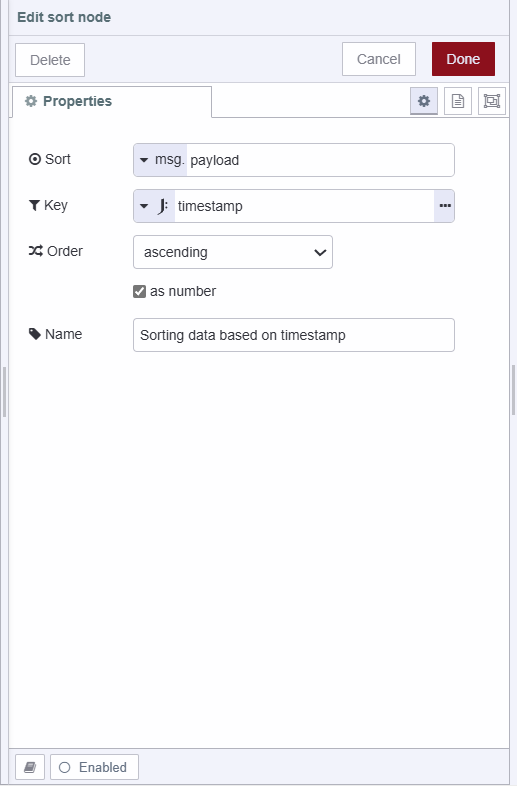
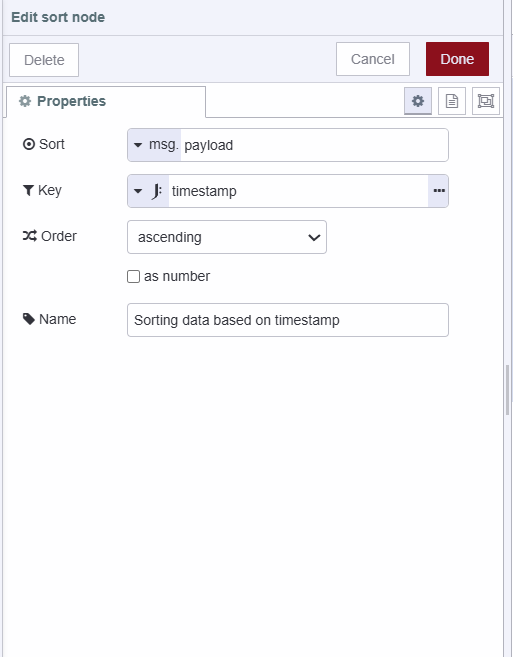
update blog

Changed region(s): [[0.0, 0.0, 1.0, 1.0], [0.2495, 0.1218, 0.6862, 0.5175], [0.8421, 0.2435, 0.9045, 0.3044]]

diff --git a/src/blog/2024/06/filtering-mapping-sorting-reducing-with-node-red.md b/src/blog/2024/06/filtering-mapping-sorting-reducing-with-node-red.md
@@ -17,7 +17,7 @@ tags:
    - data transformation
 ---
    
-[Node-RED](/node-red/) is a visual programming platform known for its user-friendly interface and low-code approach, that allows developers to spend more time developing solutions instead of dealing with technical complexities. However, users can sometimes make applications developed with Node-RED complex and hard to maintain when they are not familiar with its basics. Understanding Node-RED basics helps keep flows low-coded which helps keep your projects simple and easy to understand. This enables more team members to contribute ideas and develop effective solutions for business problems.
+[Node-RED](/node-red/) is a visual programming platform known for its user-friendly interface and low-code approach, that allows developers to spend more time developing solutions instead of dealing with technical complexities. However, users can sometimes make applications developed with Node-RED complex and hard to maintain when they are not familiar with its basics. Understanding Node-RED basics helps keep flows low-coded which helps keep your projects simple and easy to understand.
 
 <!--more-->
 
@@ -36,75 +36,76 @@ For more details refer to the following articles:
 - [Why Low-Code is Better](/blog/2024/03/low-code-is-better/).
 - [Why you need a low-code platform](/blog/2024/05/why-you-need-a-low-code-platform/).
 
-
 ## Why do you need to learn to filter, map, sort, and reduce the data?
 
-Learning to filter, map, sort, and reduce data is crucial for effective data processing and transformation. For example, consider the scenario where you have an array of sensor data retrieved from an InfluxDB database. The data looks something like this:
+Filter, map, sort, and reduce are essential functions in data processing because they efficiently transform, extract, organize, and aggregate data, that makes it easier to analyze and derive insights from datasets. For example, consider the scenario where you have an array of sensor data retrieved from an database. The data looks something like this:
 
 ```json
 [
     {
         "timestamp": "2024-06-17T10:00:00Z",
-        "emperature": 25
+        "temperature": 25
     },
     {
         "timestamp": "2024-06-17T11:00:00Z",
-        "emperature": 26
+        "temperature": 26
     },
     {
         "timestamp": "2024-06-17T10:30:00Z",
-        "emperature": 27
+        "temperature": 27
     },
     {
         "timestamp": "2024-06-17T10:15:00Z",
-        "emperature": 28
+        "temperature": 28
     },
     {
         "timestamp": "2024-06-17T10:45:00Z",
-        "emperature": 30
+        "temperature": 30
     },
     {
         "timestamp": "2024-06-18T09:00:00Z",
-        "emperature": 24
+        "temperature": 24
     },
     {
         "timestamp": "2024-06-18T10:00:00Z",
-        "emperature": 27
+        "temperature": 27
     },
     {
         "timestamp": "2024-06-18T11:00:00Z",
-        "emperature": 28
+        "temperature": 28
     },
     {
         "timestamp": "2024-06-18T12:00:00Z",
-        "emperature": 29
+        "temperature": 29
     },
     {
         "timestamp": "2024-06-19T10:00:00Z",
-        "emperature": 25
+        "temperature": 25
     },
     {
+ 
         "timestamp": "2024-06-19T11:00:00Z",
-        "emperature": 26
+        "temperature": 26
     }
 ]
 ```
 
-However, you noticed that the property 'emperature' is missing the 't'; it should be 'temperature'. Additionally, the data is not correctly ordered based on the timestamp, and you only need the data from June 17th. Finally, you want to calculate the average temperature for that day. Users who are not familiar with Node-RED basics will do it using a JavaScript function node, as shown below:
+However, you've noticed that the temperature data is in Kelvin, but you need it in Celsius. Additionally, the data is not correctly ordered by timestamp, and you only need the data of June 17th. Finally, you want to calculate the average temperature for that day. Users who are not familiar with Node-RED basics can use a JavaScript function node to achieve this, as shown below:
 
 {% renderFlow %}
-[{"id":"306d455509a3747e","type":"inject","z":"cc28dc90c5cbc3a7","name":"Inject the sample data","props":[{"p":"payload"}],"repeat":"","crontab":"","once":false,"onceDelay":0.1,"topic":"","payload":"[{\"timestamp\":\"2024-06-17T10:00:00Z\",\"emperature\":25},{\"timestamp\":\"2024-06-17T11:00:00Z\",\"emperature\":26},{\"timestamp\":\"2024-06-17T10:30:00Z\",\"emperature\":27},{\"timestamp\":\"2024-06-17T10:15:00Z\",\"emperature\":28},{\"timestamp\":\"2024-06-17T10:45:00Z\",\"emperature\":30},{\"timestamp\":\"2024-06-18T09:00:00Z\",\"emperature\":24},{\"timestamp\":\"2024-06-18T10:00:00Z\",\"emperature\":27},{\"timestamp\":\"2024-06-18T11:00:00Z\",\"emperature\":28},{\"timestamp\":\"2024-06-18T12:00:00Z\",\"emperature\":29},{\"timestamp\":\"2024-06-19T10:00:00Z\",\"emperature\":25},{\"timestamp\":\"2024-06-19T11:00:00Z\",\"emperature\":26}]","payloadType":"json","x":500,"y":640,"wires":[["c58e1653fe5511eb"]]},{"id":"c58e1653fe5511eb","type":"function","z":"cc28dc90c5cbc3a7","name":"Filtering, mapping, reducing and sorting data with traditional coding","func":"let sensorData = msg.payload;\n\nconst filteredData = sensorData\n    .filter(item => item.timestamp.startsWith(\"2024-06-17\"))\n    .map(item => ({\n        timestamp: item.timestamp,\n        temperature: item.emperature\n    }));\n\nfilteredData.sort((a, b) => (a.timestamp > b.timestamp) ? 1 : ((b.timestamp > a.timestamp) ? -1 : 0));\n\nconst totalTemperature = filteredData.reduce((acc, entry) => acc + entry.temperature, 0);\nconst averageTemperature = totalTemperature / filteredData.length\n\nmsg.payload = {\n    sensorData: filteredData,\n    averageTemperature: averageTemperature\n};\n\nreturn msg;\n","outputs":1,"timeout":0,"noerr":0,"initialize":"","finalize":"","libs":[],"x":940,"y":640,"wires":[["827c7d2009eeb046"]]},{"id":"827c7d2009eeb046","type":"debug","z":"cc28dc90c5cbc3a7","name":"debug 3","active":true,"tosidebar":true,"console":false,"tostatus":false,"complete":"false","statusVal":"","statusType":"auto","x":1300,"y":640,"wires":[]}]
+[{"id":"306d455509a3747e","type":"inject","z":"baa50b8a4762ec1f","name":"Inject the sample data","props":[{"p":"payload"}],"repeat":"","crontab":"","once":false,"onceDelay":0.1,"topic":"","payload":"[     {\"timestamp\":\"2024-06-17T10:00:00Z\",\"temperature\":25},     {\"timestamp\":\"2024-06-17T11:00:00Z\",\"temperature\":26},     {\"timestamp\":\"2024-06-17T10:30:00Z\",\"temperature\":27},     {\"timestamp\":\"2024-06-17T10:15:00Z\",\"temperature\":28},     {\"timestamp\":\"2024-06-17T10:45:00Z\",\"temperature\":30},     {\"timestamp\":\"2024-06-18T09:00:00Z\",\"temperature\":24},     {\"timestamp\":\"2024-06-18T10:00:00Z\",\"temperature\":27},     {\"timestamp\":\"2024-06-18T11:00:00Z\",\"temperature\":28},     {\"timestamp\":\"2024-06-18T12:00:00Z\",\"temperature\":29},     {\"timestamp\":\"2024-06-19T10:00:00Z\",\"temperature\":25},     {\"timestamp\":\"2024-06-19T11:00:00Z\",\"temperature\":26} ]","payloadType":"json","x":140,"y":240,"wires":[["c58e1653fe5511eb"]]},{"id":"c58e1653fe5511eb","type":"function","z":"baa50b8a4762ec1f","name":"Filtering, mapping, reducing and sorting data with traditional coding","func":"let sensorData = msg.payload;\n\nconst filteredData = sensorData\n    .filter(item => item.timestamp.startsWith(\"2024-06-17\"))\n    .map(item => ({\n        timestamp: item.timestamp,\n        temperature: item.temperature - 273.15\n    }));\n\nfilteredData.sort((a, b) => (a.timestamp > b.timestamp) ? 1 : ((b.timestamp > a.timestamp) ? -1 : 0));\n\nconst totalTemperature = filteredData.reduce((acc, entry) => acc + entry.temperature, 0);\nconst averageTemperature = totalTemperature / filteredData.length;\n\nmsg.payload = {\n    sensorData: filteredData,\n    averageTemperature: averageTemperature\n};\n\nreturn msg;\n","outputs":1,"timeout":0,"noerr":0,"initialize":"","finalize":"","libs":[],"x":580,"y":240,"wires":[["827c7d2009eeb046"]]},{"id":"827c7d2009eeb046","type":"debug","z":"baa50b8a4762ec1f","name":"debug 3","active":true,"tosidebar":true,"console":false,"tostatus":false,"complete":"false","statusVal":"","statusType":"auto","x":940,"y":240,"wires":[]}]
 {% endrenderFlow %}
 
-While it may seem simple to you, it will require sufficient JavaScript knowledge for all other members involved in your project. Most Node-RED users are creative innovators who prefer developing quick and easy solutions and do not want to spend time learning programming languages.
+Using function nodes isn't wrong, but it adds complexity to your applications. Since not everyone on the team may be familiar with JavaScript, it can limit who can solve business problems. To keep the application flow simple, using a low-code approach to perform these operations is crucial.
 
+In the following sections, we'll explore how to perform these operations using a low-code approach.
 
 ## Mapping
 
-Mapping often refers to the process of applying a function to each item in a list, array, or other collection to produce a new collection of transformed items. here in our context, we need to modify the  property of each object. To perform mapping we will use the Split, Change, and Join nodes. 
+Mapping often refers to the process of applying a function to each item in a list, array, or other collection to produce a new collection of transformed items. here in our context, we need to covert the temperature data of each object from kelvin to celsius. To perform mapping we will use the Split, Change, and Join nodes. 
 
 1. Drag a Split node onto the canvas, the Split node will Split a message into a sequence of messages which will allow us to operate on each message.
-2. Drag a Change node onto the canvas, set the `msg.payload.temperature` to `msg.payload.emperature`, and then delete the `msg.payload.emperature` property.
+2. Drag a Change node onto the canvas, set the `msg.payload.temperature` to `payload.temperature - 273.15` as JSONata expression.
 
 !["Screenshot change node correcting the temperature property"](./images/filtering-mapping-sorting-reducing-data-with-node-red-change-node.png "Screenshot change node correcting the temperature property"){data-zoomable}
 
@@ -113,20 +114,21 @@ Mapping often refers to the process of applying a function to each item in a lis
 !["Screenshot join node creating new array by combining message sequnce"](./images/filtering-mapping-sorting-reducing-data-with-node-red-join-node-combining-node.png "Screenshot join node creating new array by combining message sequnce"){data-zoomable}
 
 {% renderFlow %}
-[{"id":"306d455509a3747e","type":"inject","z":"cc28dc90c5cbc3a7","name":"Inject the sample data","props":[{"p":"payload"}],"repeat":"","crontab":"","once":false,"onceDelay":0.1,"topic":"","payload":"[{\"timestamp\":\"2024-06-17T10:00:00Z\",\"emperature\":25},{\"timestamp\":\"2024-06-17T11:00:00Z\",\"emperature\":26},{\"timestamp\":\"2024-06-17T10:30:00Z\",\"emperature\":27},{\"timestamp\":\"2024-06-17T10:15:00Z\",\"emperature\":28},{\"timestamp\":\"2024-06-17T10:45:00Z\",\"emperature\":30},{\"timestamp\":\"2024-06-18T09:00:00Z\",\"emperature\":24},{\"timestamp\":\"2024-06-18T10:00:00Z\",\"emperature\":27},{\"timestamp\":\"2024-06-18T11:00:00Z\",\"emperature\":28},{\"timestamp\":\"2024-06-18T12:00:00Z\",\"emperature\":29},{\"timestamp\":\"2024-06-19T10:00:00Z\",\"emperature\":25},{\"timestamp\":\"2024-06-19T11:00:00Z\",\"emperature\":26}]","payloadType":"json","x":540,"y":1040,"wires":[["9d9c0688468e1aae"]]},{"id":"9d9c0688468e1aae","type":"split","z":"cc28dc90c5cbc3a7","name":"Splits a message into a sequence of messages.","splt":"\\n","spltType":"str","arraySplt":1,"arraySpltType":"len","stream":false,"addname":"","x":900,"y":1040,"wires":[["785125a70fbdc554"]]},{"id":"785125a70fbdc554","type":"change","z":"cc28dc90c5cbc3a7","name":"Correcting the temperature property","rules":[{"t":"set","p":"payload.temperature","pt":"msg","to":"payload.emperature","tot":"msg"},{"t":"delete","p":"payload.emperature","pt":"msg"}],"action":"","property":"","from":"","to":"","reg":false,"x":1320,"y":1040,"wires":[["9cd6e05b88ec26fd"]]},{"id":"9cd6e05b88ec26fd","type":"join","z":"cc28dc90c5cbc3a7","name":"Creating new array by combining message sequence","mode":"custom","build":"array","property":"payload","propertyType":"msg","key":"topic","joiner":"\\n","joinerType":"str","accumulate":false,"timeout":"","count":"0","reduceRight":false,"reduceExp":"","reduceInit":"","reduceInitType":"","reduceFixup":"","x":1740,"y":1040,"wires":[["244660d81bf5e5b2"]]},{"id":"244660d81bf5e5b2","type":"debug","z":"cc28dc90c5cbc3a7","name":"debug 3","active":true,"tosidebar":true,"console":false,"tostatus":false,"complete":"false","statusVal":"","statusType":"auto","x":2080,"y":1040,"wires":[]}]
+[{"id":"306d455509a3747e","type":"inject","z":"baa50b8a4762ec1f","name":"Inject the sample data","props":[{"p":"payload"}],"repeat":"","crontab":"","once":false,"onceDelay":0.1,"topic":"","payload":"[     {\"timestamp\":\"2024-06-17T10:00:00Z\",\"temperature\":298.15},     {\"timestamp\":\"2024-06-17T11:00:00Z\",\"temperature\":299.15},     {\"timestamp\":\"2024-06-17T10:30:00Z\",\"temperature\":300.15},     {\"timestamp\":\"2024-06-17T10:15:00Z\",\"temperature\":301.15},     {\"timestamp\":\"2024-06-17T10:45:00Z\",\"temperature\":303.15},     {\"timestamp\":\"2024-06-18T09:00:00Z\",\"temperature\":297.15},     {\"timestamp\":\"2024-06-18T10:00:00Z\",\"temperature\":300.15},     {\"timestamp\":\"2024-06-18T11:00:00Z\",\"temperature\":301.15},     {\"timestamp\":\"2024-06-18T12:00:00Z\",\"temperature\":302.15},     {\"timestamp\":\"2024-06-19T10:00:00Z\",\"temperature\":298.15},     {\"timestamp\":\"2024-06-19T11:00:00Z\",\"temperature\":299.15} ]","payloadType":"json","x":200,"y":380,"wires":[["9d9c0688468e1aae"]]},{"id":"9d9c0688468e1aae","type":"split","z":"baa50b8a4762ec1f","name":"Splits a message into a sequence of messages.","splt":"\\n","spltType":"str","arraySplt":1,"arraySpltType":"len","stream":false,"addname":"","x":560,"y":380,"wires":[["785125a70fbdc554"]]},{"id":"785125a70fbdc554","type":"change","z":"baa50b8a4762ec1f","name":"Converting the temperature data from kelvin to celsius","rules":[{"t":"set","p":"payload.temperature","pt":"msg","to":"payload.temperature - 273.15","tot":"jsonata"}],"action":"","property":"","from":"","to":"","reg":false,"x":1040,"y":380,"wires":[["9cd6e05b88ec26fd"]]},{"id":"9cd6e05b88ec26fd","type":"join","z":"baa50b8a4762ec1f","name":"Creating new array by combining message sequence","mode":"custom","build":"array","property":"payload","propertyType":"msg","key":"topic","joiner":"\\n","joinerType":"str","accumulate":false,"timeout":"","count":"0","reduceRight":false,"reduceExp":"","reduceInit":"","reduceInitType":"","reduceFixup":"","x":1520,"y":380,"wires":[["244660d81bf5e5b2"]]},{"id":"244660d81bf5e5b2","type":"debug","z":"baa50b8a4762ec1f","name":"debug 3","active":true,"tosidebar":true,"console":false,"tostatus":false,"complete":"false","statusVal":"","statusType":"auto","x":1840,"y":380,"wires":[]}]
 {% endrenderFlow %}
 
 ## Filtering
 
-Filtering is the process of selecting specific items from an array to create a new array. In Node-RED, filtering is achieved using mapping and condition-based routing. Now we are familiar with mapping and have done it above so we need to use only one more extra node which is the switch node for condition-based routing.
+Filtering is the process of selecting specific items from an array to create a new array. In Node-RED, filtering is achieved using mapping and condition-based routing. Now we are familiar with mapping and have done it above, so we need to use only one more extra node which is the switch node for condition-based routing.
 
 1. Drag a switch node and place it after the Change node and before the Join node.
-2. Set the condition to check whether `msg.payload.timestamp` includes '2024-06-17'. This condition ensures that only messages containing the specified date in their timestamp are sent further.
+2. Set the condition to check whether `msg.payload.timestamp` includes '2024-06-17' This condition ensures that only messages containing the specified date in their timestamp are sent further. 
+3. Next, In the switch node checked the option "recreate message sequences" that will repair the `msg.parts` metadata added by Split node if any messages are dropped by the switch node.
 
-!["Screenshot switch node filtering data bases on timestamp"](./images/filtering-mapping-sorting-reducing-data-with-node-red-switch-node.png "Screenshot switch node filtering data bases on timestamp"){data-zoomable}
+!["Screenshot of switch node filtering data bases on timestamp"](./images/filtering-mapping-sorting-reducing-switch-node.png "Screenshot switch node filtering data bases on timestamp"){data-zoomable}
 
 {% renderFlow %}
-[{"id":"4e76a2328451b4c3","type":"inject","z":"cc28dc90c5cbc3a7","name":"Inject the sample data","props":[{"p":"payload"}],"repeat":"","crontab":"","once":false,"onceDelay":0.1,"topic":"","payload":"[{\"timestamp\":\"2024-06-17T10:00:00Z\",\"emperature\":25},{\"timestamp\":\"2024-06-17T11:00:00Z\",\"emperature\":26},{\"timestamp\":\"2024-06-17T10:30:00Z\",\"emperature\":27},{\"timestamp\":\"2024-06-17T10:15:00Z\",\"emperature\":28},{\"timestamp\":\"2024-06-17T10:45:00Z\",\"emperature\":30},{\"timestamp\":\"2024-06-18T09:00:00Z\",\"emperature\":24},{\"timestamp\":\"2024-06-18T10:00:00Z\",\"emperature\":27},{\"timestamp\":\"2024-06-18T11:00:00Z\",\"emperature\":28},{\"timestamp\":\"2024-06-18T12:00:00Z\",\"emperature\":29},{\"timestamp\":\"2024-06-19T10:00:00Z\",\"emperature\":25},{\"timestamp\":\"2024-06-19T11:00:00Z\",\"emperature\":26}]","payloadType":"json","x":460,"y":660,"wires":[["f4e07a31f505a50c"]]},{"id":"f4e07a31f505a50c","type":"split","z":"cc28dc90c5cbc3a7","name":"Splits a message into a sequence of messages.","splt":"\\n","spltType":"str","arraySplt":1,"arraySpltType":"len","stream":false,"addname":"","x":780,"y":660,"wires":[["e2c72742c94d2e88"]]},{"id":"e2c72742c94d2e88","type":"change","z":"cc28dc90c5cbc3a7","name":"Correcting the temperature property","rules":[{"t":"set","p":"payload.temperature","pt":"msg","to":"payload.emperature","tot":"msg"},{"t":"delete","p":"payload.emperature","pt":"msg"}],"action":"","property":"","from":"","to":"","reg":false,"x":1180,"y":660,"wires":[["7797594a508cfb46"]]},{"id":"bed1a7d861fa9e3d","type":"join","z":"cc28dc90c5cbc3a7","name":"Creating new array by combining message sequence","mode":"custom","build":"array","property":"payload","propertyType":"msg","key":"topic","joiner":"\\n","joinerType":"str","accumulate":false,"timeout":"","count":"0","reduceRight":false,"reduceExp":"","reduceInit":"","reduceInitType":"num","reduceFixup":"","x":1980,"y":660,"wires":[["2449811ec79bc220"]]},{"id":"2449811ec79bc220","type":"debug","z":"cc28dc90c5cbc3a7","name":"debug 3","active":true,"tosidebar":true,"console":false,"tostatus":false,"complete":"true","targetType":"full","statusVal":"","statusType":"auto","x":2300,"y":660,"wires":[]},{"id":"7797594a508cfb46","type":"switch","z":"cc28dc90c5cbc3a7","name":"Routing message sequence based on condition","property":"payload.timestamp","propertyType":"msg","rules":[{"t":"cont","v":"2024-06-17","vt":"str"}],"checkall":"true","repair":false,"outputs":1,"x":1540,"y":660,"wires":[["bed1a7d861fa9e3d"]]}]
+[{"id":"4e76a2328451b4c3","type":"inject","z":"977143edb097b685","name":"Inject the sample data","props":[{"p":"payload"}],"repeat":"","crontab":"","once":false,"onceDelay":0.1,"topic":"","payload":"[{\"timestamp\":\"2024-06-17T10:00:00Z\",\"temperature\":298.15},{\"timestamp\":\"2024-06-17T11:00:00Z\",\"temperature\":299.15},{\"timestamp\":\"2024-06-17T10:30:00Z\",\"temperature\":300.15},{\"timestamp\":\"2024-06-17T10:15:00Z\",\"temperature\":301.15},{\"timestamp\":\"2024-06-17T10:45:00Z\",\"temperature\":303.15},{\"timestamp\":\"2024-06-18T09:00:00Z\",\"temperature\":297.15},{\"timestamp\":\"2024-06-18T10:00:00Z\",\"temperature\":300.15},{\"timestamp\":\"2024-06-18T11:00:00Z\",\"temperature\":301.15},{\"timestamp\":\"2024-06-18T12:00:00Z\",\"temperature\":302.15},{\"timestamp\":\"2024-06-19T10:00:00Z\",\"temperature\":298.15},{\"timestamp\":\"2024-06-19T11:00:00Z\",\"temperature\":299.15}]","payloadType":"json","x":140,"y":600,"wires":[["f4e07a31f505a50c"]]},{"id":"f4e07a31f505a50c","type":"split","z":"977143edb097b685","name":"Splits a message into a sequence of messages.","splt":"\\n","spltType":"str","arraySplt":1,"arraySpltType":"len","stream":false,"addname":"","x":440,"y":600,"wires":[["fcd6a0a1497203a9"]]},{"id":"bed1a7d861fa9e3d","type":"join","z":"977143edb097b685","name":"Creating new array by combining message sequence","mode":"custom","build":"array","property":"payload","propertyType":"msg","key":"topic","joiner":"\\n","joinerType":"str","accumulate":false,"timeout":"","count":"0","reduceRight":false,"reduceExp":"","reduceInit":"","reduceInitType":"num","reduceFixup":"","x":1700,"y":600,"wires":[["2449811ec79bc220"]]},{"id":"2449811ec79bc220","type":"debug","z":"977143edb097b685","name":"debug 3","active":true,"tosidebar":true,"console":false,"tostatus":false,"complete":"true","targetType":"full","statusVal":"","statusType":"auto","x":2000,"y":600,"wires":[]},{"id":"7797594a508cfb46","type":"switch","z":"977143edb097b685","name":"Routing message sequence based on condition","property":"payload.timestamp","propertyType":"msg","rules":[{"t":"cont","v":"2024-06-17","vt":"str"}],"checkall":"true","repair":true,"outputs":1,"x":1280,"y":600,"wires":[["bed1a7d861fa9e3d"]]},{"id":"fcd6a0a1497203a9","type":"change","z":"977143edb097b685","name":"Converting the temperature data from kelvin to celsius","rules":[{"t":"set","p":"payload.temperature","pt":"msg","to":"payload.temperature - 273.15","tot":"jsonata"}],"action":"","property":"","from":"","to":"","reg":false,"x":860,"y":600,"wires":[["7797594a508cfb46"]]}]
 {% endrenderFlow %}
 
 ## Sorting 
@@ -140,7 +142,7 @@ To perform sorting, we have to use the Node-RED Sort Node.
 !["Screenshot of sort node sorting data in ascending order based on timestamp"](./images/filtering-mapping-sorting-reducing-data-with-node-red-sort-node.png "Screenshot of sort node sorting data in ascending order based on timestamp"){data-zoomable}
 
 {% renderFlow %}
-[{"id":"cce98271b60bee29","type":"inject","z":"cc28dc90c5cbc3a7","name":"Inject the sample data","props":[{"p":"payload"}],"repeat":"","crontab":"","once":false,"onceDelay":0.1,"topic":"","payload":"[{\"timestamp\":\"2024-06-17T10:00:00Z\",\"emperature\":25},{\"timestamp\":\"2024-06-17T11:00:00Z\",\"emperature\":26},{\"timestamp\":\"2024-06-17T10:30:00Z\",\"emperature\":27},{\"timestamp\":\"2024-06-17T10:15:00Z\",\"emperature\":28},{\"timestamp\":\"2024-06-17T10:45:00Z\",\"emperature\":30},{\"timestamp\":\"2024-06-18T09:00:00Z\",\"emperature\":24},{\"timestamp\":\"2024-06-18T10:00:00Z\",\"emperature\":27},{\"timestamp\":\"2024-06-18T11:00:00Z\",\"emperature\":28},{\"timestamp\":\"2024-06-18T12:00:00Z\",\"emperature\":29},{\"timestamp\":\"2024-06-19T10:00:00Z\",\"emperature\":25},{\"timestamp\":\"2024-06-19T11:00:00Z\",\"emperature\":26}]","payloadType":"json","x":460,"y":880,"wires":[["178c7ba914da7da8"]]},{"id":"178c7ba914da7da8","type":"split","z":"cc28dc90c5cbc3a7","name":"Splits a message into a sequence of messages.","splt":"\\n","spltType":"str","arraySplt":1,"arraySpltType":"len","stream":false,"addname":"","x":780,"y":880,"wires":[["f9e054f098428bf2"]]},{"id":"f9e054f098428bf2","type":"change","z":"cc28dc90c5cbc3a7","name":"Correcting the temperature property","rules":[{"t":"set","p":"payload.temperature","pt":"msg","to":"payload.emperature","tot":"msg"},{"t":"delete","p":"payload.emperature","pt":"msg"}],"action":"","property":"","from":"","to":"","reg":false,"x":1160,"y":880,"wires":[["1ddad5c39bbea168"]]},{"id":"0017b54c2c035cb3","type":"join","z":"cc28dc90c5cbc3a7","name":"Creating new array by combining message sequence","mode":"custom","build":"array","property":"payload","propertyType":"msg","key":"topic","joiner":"\\n","joinerType":"str","accumulate":false,"timeout":"","count":"0","reduceRight":false,"reduceExp":"","reduceInit":"","reduceInitType":"num","reduceFixup":"","x":1940,"y":880,"wires":[["b6e92b89bafc0f8c"]]},{"id":"483ad6e061619d79","type":"debug","z":"cc28dc90c5cbc3a7","name":"debug 3","active":true,"tosidebar":true,"console":false,"tostatus":false,"complete":"true","targetType":"full","statusVal":"","statusType":"auto","x":2560,"y":880,"wires":[]},{"id":"1ddad5c39bbea168","type":"switch","z":"cc28dc90c5cbc3a7","name":"Routing message sequence based on condition","property":"payload.timestamp","propertyType":"msg","rules":[{"t":"cont","v":"2024-06-17","vt":"str"}],"checkall":"true","repair":false,"outputs":1,"x":1520,"y":880,"wires":[["0017b54c2c035cb3"]]},{"id":"b6e92b89bafc0f8c","type":"sort","z":"cc28dc90c5cbc3a7","name":"Sorting data based on timestamp","order":"ascending","as_num":true,"target":"payload","targetType":"msg","msgKey":"timestamp","msgKeyType":"jsonata","seqKey":"payload.timestamp","seqKeyType":"jsonata","x":2320,"y":880,"wires":[["483ad6e061619d79"]]}]
+[{"id":"8b66990baca45f2d","type":"inject","z":"977143edb097b685","name":"Inject the sample data","props":[{"p":"payload"}],"repeat":"","crontab":"","once":false,"onceDelay":0.1,"topic":"","payload":"[{\"timestamp\":\"2024-06-17T10:00:00Z\",\"emperature\":25},{\"timestamp\":\"2024-06-17T11:00:00Z\",\"emperature\":26},{\"timestamp\":\"2024-06-17T10:30:00Z\",\"emperature\":27},{\"timestamp\":\"2024-06-17T10:15:00Z\",\"emperature\":28},{\"timestamp\":\"2024-06-17T10:45:00Z\",\"emperature\":30},{\"timestamp\":\"2024-06-18T09:00:00Z\",\"emperature\":24},{\"timestamp\":\"2024-06-18T10:00:00Z\",\"emperature\":27},{\"timestamp\":\"2024-06-18T11:00:00Z\",\"emperature\":28},{\"timestamp\":\"2024-06-18T12:00:00Z\",\"emperature\":29},{\"timestamp\":\"2024-06-19T10:00:00Z\",\"emperature\":25},{\"timestamp\":\"2024-06-19T11:00:00Z\",\"emperature\":26}]","payloadType":"json","x":840,"y":1300,"wires":[["f0d48b57cbd10fdd"]]},{"id":"f0d48b57cbd10fdd","type":"split","z":"977143edb097b685","name":"Splits a message into a sequence of messages.","splt":"\\n","spltType":"str","arraySplt":1,"arraySpltType":"len","stream":false,"addname":"","x":1180,"y":1300,"wires":[["fdc21a267f7583e7"]]},{"id":"fdc21a267f7583e7","type":"change","z":"977143edb097b685","name":"Correcting the temperature property","rules":[{"t":"set","p":"payload.temperature","pt":"msg","to":"payload.emperature","tot":"msg"},{"t":"delete","p":"payload.emperature","pt":"msg"}],"action":"","property":"","from":"","to":"","reg":false,"x":1520,"y":1300,"wires":[["7d4ce2d4e21cd914"]]},{"id":"c273215c8c9cebee","type":"join","z":"977143edb097b685","name":"Creating new array by combining message sequence","mode":"custom","build":"array","property":"payload","propertyType":"msg","key":"topic","joiner":"\\n","joinerType":"str","accumulate":false,"timeout":"","count":"0","reduceRight":false,"reduceExp":"","reduceInit":"","reduceInitType":"num","reduceFixup":"","x":2300,"y":1300,"wires":[["c423efbd0581367a"]]},{"id":"e70d15ced7405755","type":"debug","z":"977143edb097b685","name":"debug 3","active":true,"tosidebar":true,"console":false,"tostatus":false,"complete":"true","targetType":"full","statusVal":"","statusType":"auto","x":2920,"y":1300,"wires":[]},{"id":"7d4ce2d4e21cd914","type":"switch","z":"977143edb097b685","name":"Routing message sequence based on condition","property":"payload.timestamp","propertyType":"msg","rules":[{"t":"cont","v":"2024-06-17","vt":"str"}],"checkall":"true","repair":true,"outputs":1,"x":1880,"y":1300,"wires":[["c273215c8c9cebee"]]},{"id":"c423efbd0581367a","type":"sort","z":"977143edb097b685","name":"Sorting data based on timestamp","order":"ascending","as_num":false,"target":"payload","targetType":"msg","msgKey":"timestamp","msgKeyType":"jsonata","seqKey":"payload.timestamp","seqKeyType":"jsonata","x":2680,"y":1300,"wires":[["e70d15ced7405755"]]}]
 {% endrenderFlow %}
 
 ## Reducing 
@@ -156,7 +158,7 @@ Reducing refers to the process of combining elements of a data structure (such a
 In this configuration, the Join node is set to reduce sequence mode. The initial value of the accumulator ($A) is initialized to 0. As each message is processed, the current temperature (payload.temperature) is added to $A. Once all messages have been processed, the accumulated sum $A is divided by the total number of messages ($N) to compute the average temperature.
 
 {% renderFlow %}
-[{"id":"cce98271b60bee29","type":"inject","z":"cc28dc90c5cbc3a7","name":"Inject the sample data","props":[{"p":"payload"}],"repeat":"","crontab":"","once":false,"onceDelay":0.1,"topic":"","payload":"[{\"timestamp\":\"2024-06-17T10:00:00Z\",\"emperature\":25},{\"timestamp\":\"2024-06-17T11:00:00Z\",\"emperature\":26},{\"timestamp\":\"2024-06-17T10:30:00Z\",\"emperature\":27},{\"timestamp\":\"2024-06-17T10:15:00Z\",\"emperature\":28},{\"timestamp\":\"2024-06-17T10:45:00Z\",\"emperature\":30},{\"timestamp\":\"2024-06-18T09:00:00Z\",\"emperature\":24},{\"timestamp\":\"2024-06-18T10:00:00Z\",\"emperature\":27},{\"timestamp\":\"2024-06-18T11:00:00Z\",\"emperature\":28},{\"timestamp\":\"2024-06-18T12:00:00Z\",\"emperature\":29},{\"timestamp\":\"2024-06-19T10:00:00Z\",\"emperature\":25},{\"timestamp\":\"2024-06-19T11:00:00Z\",\"emperature\":26}]","payloadType":"json","x":460,"y":880,"wires":[["178c7ba914da7da8"]]},{"id":"178c7ba914da7da8","type":"split","z":"cc28dc90c5cbc3a7","name":"Splits a message into a sequence of messages.","splt":"\\n","spltType":"str","arraySplt":1,"arraySpltType":"len","stream":false,"addname":"","x":780,"y":880,"wires":[["f9e054f098428bf2"]]},{"id":"f9e054f098428bf2","type":"change","z":"cc28dc90c5cbc3a7","name":"Correcting the temperature property","rules":[{"t":"set","p":"payload.temperature","pt":"msg","to":"payload.emperature","tot":"msg"},{"t":"delete","p":"payload.emperature","pt":"msg"}],"action":"","property":"","from":"","to":"","reg":false,"x":1160,"y":880,"wires":[["1ddad5c39bbea168"]]},{"id":"0017b54c2c035cb3","type":"join","z":"cc28dc90c5cbc3a7","name":"Creating new array by combining message sequence","mode":"custom","build":"array","property":"payload","propertyType":"msg","key":"topic","joiner":"\\n","joinerType":"str","accumulate":false,"timeout":"","count":"0","reduceRight":false,"reduceExp":"","reduceInit":"","reduceInitType":"num","reduceFixup":"","x":1940,"y":880,"wires":[["b6e92b89bafc0f8c","a0c3a175355655ed"]]},{"id":"1ddad5c39bbea168","type":"switch","z":"cc28dc90c5cbc3a7","name":"Routing message sequence based on condition","property":"payload.timestamp","propertyType":"msg","rules":[{"t":"cont","v":"2024-06-17","vt":"str"}],"checkall":"true","repair":false,"outputs":1,"x":1520,"y":880,"wires":[["0017b54c2c035cb3"]]},{"id":"b6e92b89bafc0f8c","type":"sort","z":"cc28dc90c5cbc3a7","name":"Sorting data based on timestamp","order":"ascending","as_num":true,"target":"payload","targetType":"msg","msgKey":"timestamp","msgKeyType":"jsonata","seqKey":"payload.timestamp","seqKeyType":"jsonata","x":2320,"y":880,"wires":[["483ad6e061619d79"]]},{"id":"f38c6ae46c09ec28","type":"debug","z":"cc28dc90c5cbc3a7","name":"debug 4","active":true,"tosidebar":true,"console":false,"tostatus":false,"complete":"payload","targetType":"msg","statusVal":"","statusType":"auto","x":3020,"y":1000,"wires":[]},{"id":"1681d89d8c11ce6e","type":"join","z":"cc28dc90c5cbc3a7","name":"Calculating the  the average of temperature","mode":"reduce","build":"object","property":"payload","propertyType":"msg","key":"topic","joiner":"\\n","joinerType":"str","accumulate":true,"timeout":"","count":"","reduceRight":false,"reduceExp":"$A+ payload.temperature","reduceInit":"0","reduceInitType":"num","reduceFixup":"$A/$N","x":2770,"y":1000,"wires":[["f38c6ae46c09ec28"]]},{"id":"483ad6e061619d79","type":"debug","z":"cc28dc90c5cbc3a7","name":"debug 3","active":true,"tosidebar":true,"console":false,"tostatus":false,"complete":"true","targetType":"full","statusVal":"","statusType":"auto","x":2600,"y":880,"wires":[]},{"id":"a0c3a175355655ed","type":"split","z":"cc28dc90c5cbc3a7","name":"Splits a message into a sequence of messages.","splt":"\\n","spltType":"str","arraySplt":1,"arraySpltType":"len","stream":false,"addname":"","x":2340,"y":1000,"wires":[["1681d89d8c11ce6e"]]}]
+[{"id":"5ff0902202c21e85","type":"inject","z":"977143edb097b685","name":"Inject the sample data","props":[{"p":"payload"}],"repeat":"","crontab":"","once":false,"onceDelay":0.1,"topic":"","payload":"[{\"timestamp\":\"2024-06-17T10:00:00Z\",\"emperature\":25},{\"timestamp\":\"2024-06-17T11:00:00Z\",\"emperature\":26},{\"timestamp\":\"2024-06-17T10:30:00Z\",\"emperature\":27},{\"timestamp\":\"2024-06-17T10:15:00Z\",\"emperature\":28},{\"timestamp\":\"2024-06-17T10:45:00Z\",\"emperature\":30},{\"timestamp\":\"2024-06-18T09:00:00Z\",\"emperature\":24},{\"timestamp\":\"2024-06-18T10:00:00Z\",\"emperature\":27},{\"timestamp\":\"2024-06-18T11:00:00Z\",\"emperature\":28},{\"timestamp\":\"2024-06-18T12:00:00Z\",\"emperature\":29},{\"timestamp\":\"2024-06-19T10:00:00Z\",\"emperature\":25},{\"timestamp\":\"2024-06-19T11:00:00Z\",\"emperature\":26}]","payloadType":"json","x":480,"y":900,"wires":[["993ffc096c3e8089"]]},{"id":"993ffc096c3e8089","type":"split","z":"977143edb097b685","name":"Splits a message into a sequence of messages.","splt":"\\n","spltType":"str","arraySplt":1,"arraySpltType":"len","stream":false,"addname":"","x":800,"y":900,"wires":[["3bbb68c2dc2a0f5c"]]},{"id":"3bbb68c2dc2a0f5c","type":"change","z":"977143edb097b685","name":"Correcting the temperature property","rules":[{"t":"set","p":"payload.temperature","pt":"msg","to":"payload.emperature","tot":"msg"},{"t":"delete","p":"payload.emperature","pt":"msg"}],"action":"","property":"","from":"","to":"","reg":false,"x":1180,"y":900,"wires":[["580210c585730f97"]]},{"id":"01e7066b3ff012e7","type":"join","z":"977143edb097b685","name":"Creating new array by combining message sequence","mode":"custom","build":"array","property":"payload","propertyType":"msg","key":"topic","joiner":"\\n","joinerType":"str","accumulate":false,"timeout":"","count":"0","reduceRight":false,"reduceExp":"","reduceInit":"","reduceInitType":"num","reduceFixup":"","x":1960,"y":900,"wires":[["27cc5d5e90f7facd","6116c1efc3f7f682"]]},{"id":"580210c585730f97","type":"switch","z":"977143edb097b685","name":"Routing message sequence based on condition","property":"payload.timestamp","propertyType":"msg","rules":[{"t":"cont","v":"2024-06-17","vt":"str"}],"checkall":"true","repair":true,"outputs":1,"x":1540,"y":900,"wires":[["01e7066b3ff012e7"]]},{"id":"27cc5d5e90f7facd","type":"sort","z":"977143edb097b685","name":"Sorting data based on timestamp","order":"ascending","as_num":false,"target":"payload","targetType":"msg","msgKey":"timestamp","msgKeyType":"jsonata","seqKey":"payload.timestamp","seqKeyType":"jsonata","x":2340,"y":900,"wires":[["f1f93a7b4575daf1"]]},{"id":"362ec9c482688cf6","type":"debug","z":"977143edb097b685","name":"debug 4","active":true,"tosidebar":true,"console":false,"tostatus":false,"complete":"payload","targetType":"msg","statusVal":"","statusType":"auto","x":3040,"y":1020,"wires":[]},{"id":"b9f2f83a330140ca","type":"join","z":"977143edb097b685","name":"Calculating the  the average of temperature","mode":"reduce","build":"object","property":"payload","propertyType":"msg","key":"topic","joiner":"\\n","joinerType":"str","accumulate":true,"timeout":"","count":"","reduceRight":false,"reduceExp":"$A+ payload.temperature","reduceInit":"0","reduceInitType":"num","reduceFixup":"$A/$N","x":2790,"y":1020,"wires":[["362ec9c482688cf6"]]},{"id":"f1f93a7b4575daf1","type":"debug","z":"977143edb097b685","name":"debug 3","active":true,"tosidebar":true,"console":false,"tostatus":false,"complete":"true","targetType":"full","statusVal":"","statusType":"auto","x":2620,"y":900,"wires":[]},{"id":"6116c1efc3f7f682","type":"split","z":"977143edb097b685","name":"Splits a message into a sequence of messages.","splt":"\\n","spltType":"str","arraySplt":1,"arraySpltType":"len","stream":false,"addname":"","x":2360,"y":1020,"wires":[["b9f2f83a330140ca"]]}]
 {% endrenderFlow %}
 
 ## Conclusion 
